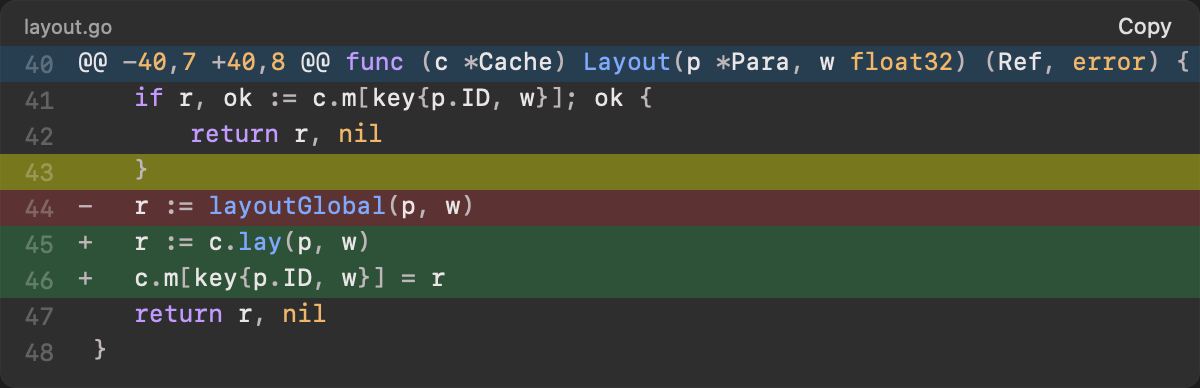
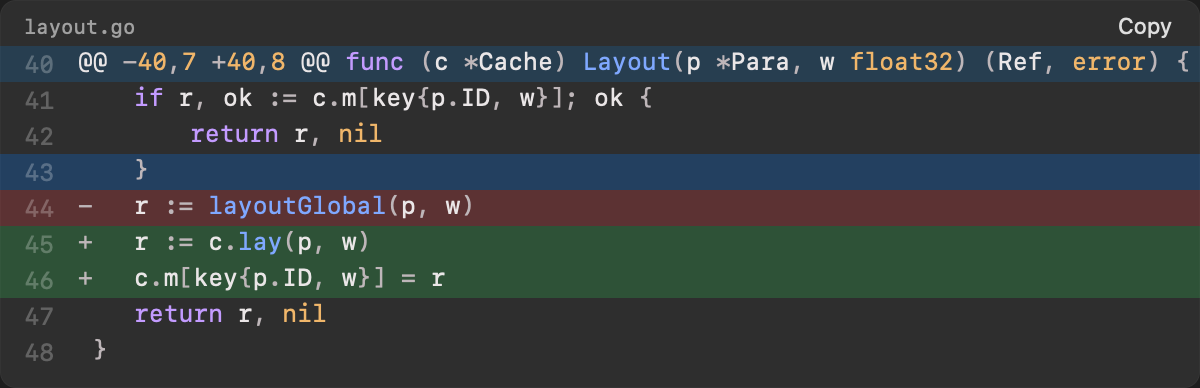
rexui: CodeBlock's label is Rex metadata and its hit line a quiet accent tint
The header's language label is mono (LabelOpts.MonoPt, CodeRecipe.LabelPt)
and takes the room the Copy button leaves with Grow(1), in place of
JustifySpaceBetween; a long label fades instead of running under Copy.
The highlighted line was findHighlightColor at 45 %/35 % (bright yellow,
olive in dark); it is now the accent at Rex's 14 % light, 24 % dark.
Goldens regenerated.

Changed region(s): [[0.0, 0.3711, 1.0, 0.4948], [0.0, 0.0619, 0.1233, 0.0928]]

diff --git a/rexui/codeblock.go b/rexui/codeblock.go
@@ -56,12 +56,14 @@ type CodeRecipe struct {
 	// SizePt is the code's type size and LineGap the space added to the mono
 	// font's line height, in points.
 	SizePt, LineGap float32
-	// Label is the colour of the header's language label; Gutter of the line
-	// numbers and GutterPad the space after them, in points.
-	Label, Gutter Tint
-	GutterPad     float32
+	// Label is the colour of the header's language label and LabelPt its
+	// monospaced size (Rex's metadata, LabelOpts.MonoPt); Gutter is the colour
+	// of the line numbers and GutterPad the space after them, in points.
+	Label, Gutter      Tint
+	LabelPt, GutterPad float32
 	// Added, Removed, Hunk and Hit are the bands behind added, removed and
-	// hunk lines and the highlighted line.
+	// hunk lines and the highlighted line, which is a quiet tint of the
+	// accent (Rex's 14 % light, 24 % dark).
 	Added, Removed, Hunk, Hit Tint
 }
 
@@ -69,9 +71,9 @@ type CodeRecipe struct {
 var CodeLook = CodeRecipe{
 	Fill: OfAlpha(theme.Label, 0.035, 0.07), Rim: Of(theme.Separator), Radius: 8, PadX: 12, PadY: 9,
 	SizePt: 12, LineGap: 4,
-	Label: Of(theme.Label2), Gutter: Of(theme.Label3), GutterPad: 12,
+	Label: Of(theme.Label2), Gutter: Of(theme.Label3), LabelPt: 10, GutterPad: 12,
 	Added: OfAlpha(theme.Green, 0.14, 0.22), Removed: OfAlpha(theme.Red, 0.13, 0.22),
-	Hunk: OfAlpha(theme.Blue, 0.09, 0.16), Hit: OfAlpha(theme.FindHighlight, 0.45, 0.35),
+	Hunk: OfAlpha(theme.Blue, 0.09, 0.16), Hit: OfAlpha(theme.Accent, 0.14, 0.24),
 }
 
 // CodeColor is the colour of a highlight role on the Rex code palette (the
@@ -180,7 +182,6 @@ func CodeBlock(k *base.Kit, key ui.Key, src []byte, o CodeOpts) CodeSignal {
 	if !o.NoHeader {
 		c.NextSize(ui.Pct(1), ui.Children(1))
 		c.NextAxis(ui.AxisX)
-		c.NextJustify(ui.JustifySpaceBetween)
 		c.NextCross(ui.CrossCenter)
 		c.NextPadding(pt(sc, rc.PadX), pt(sc, 3), pt(sc, 4), 0)
 		c.Push(c.BoxKeyed(0, ui.KeyN(key, 1), nil))
@@ -188,9 +189,13 @@ func CodeBlock(k *base.Kit, key ui.Key, src []byte, o CodeOpts) CodeSignal {
 		if label == "" && o.Lang != highlight.Plain {
 			label = o.Lang.String()
 		}
+		// the label takes the room the Copy button leaves (fading if it is
+		// longer), so the button sits at the end
 		if label != "" {
-			Label(k, label, LabelOpts{Style: TextCaption, Color: rc.Label})
+			k.NextWidth(ui.Grow(1))
+			Label(k, label, LabelOpts{Style: TextCaption, Color: rc.Label, MonoPt: rc.LabelPt})
 		} else {
+			c.NextSize(ui.Grow(1), ui.Px(0))
 			c.Box(0, "lang")
 		}
 		if Button(k, "Copy", ButtonOpts{Variant: ButtonPlain, Size: theme.SizeSmall}).Clicked {
